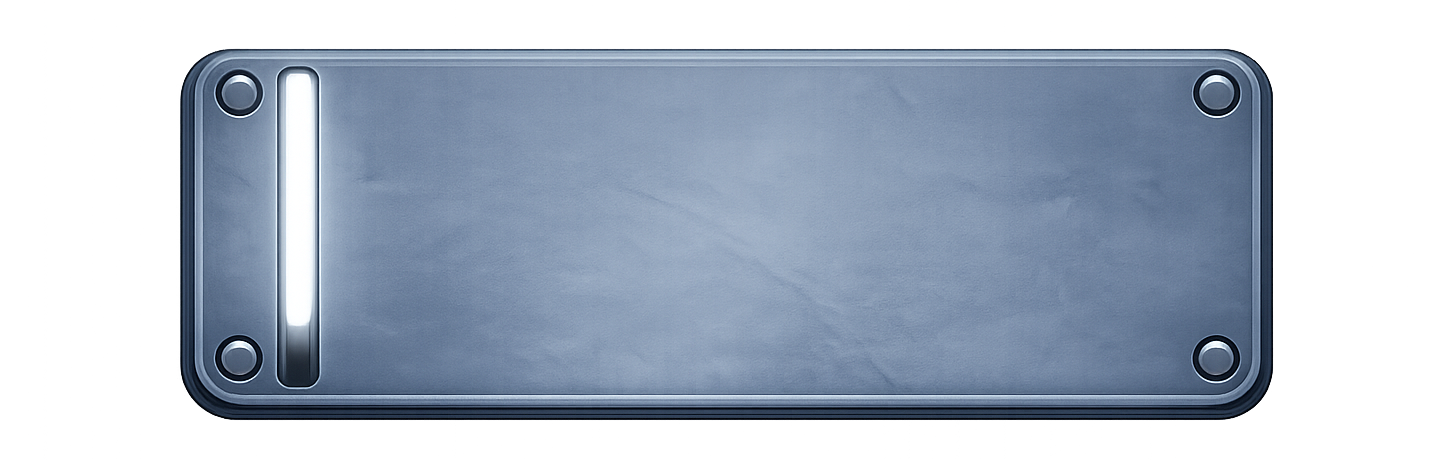
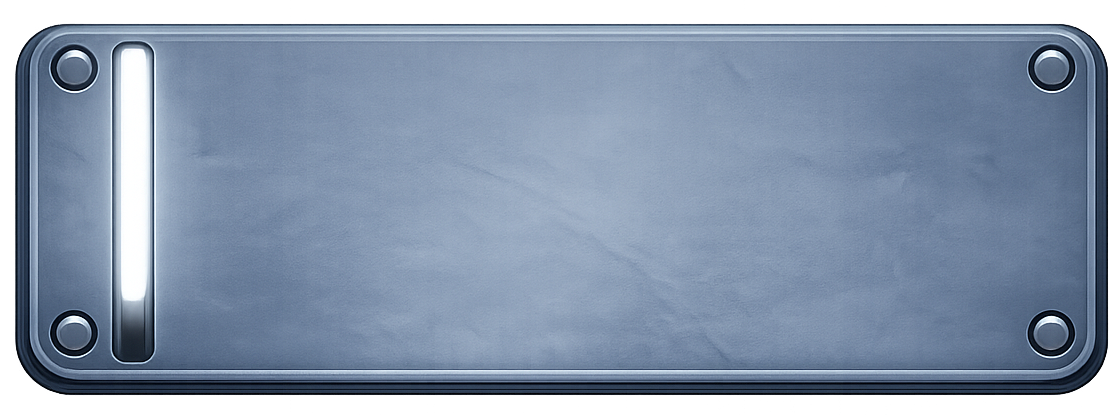
Re-crop panel button assets tighter and shift drawer labels right

diff --git a/apps/mobile/src/navigation/AppNavigator.tsx b/apps/mobile/src/navigation/AppNavigator.tsx
@@ -372,7 +372,7 @@ const styles = StyleSheet.create({
     borderRadius: 16,
     minHeight: 72,
     paddingVertical: 14,
-    paddingHorizontal: 48,
+    paddingHorizontal: 62,
     position: 'relative',
     overflow: 'hidden',
     justifyContent: 'center',
